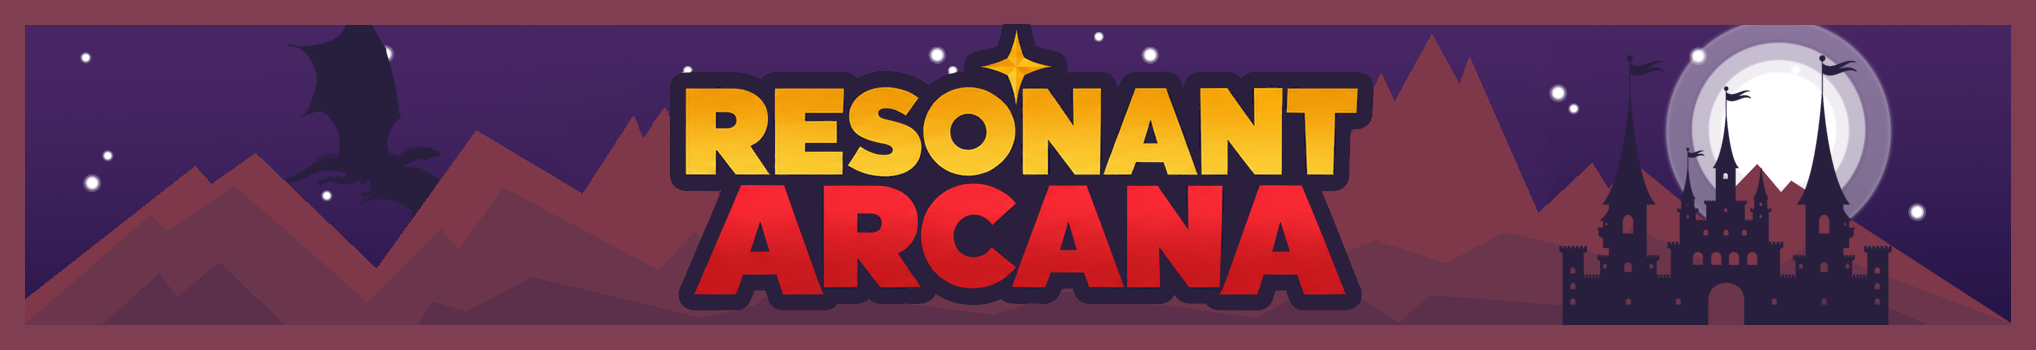
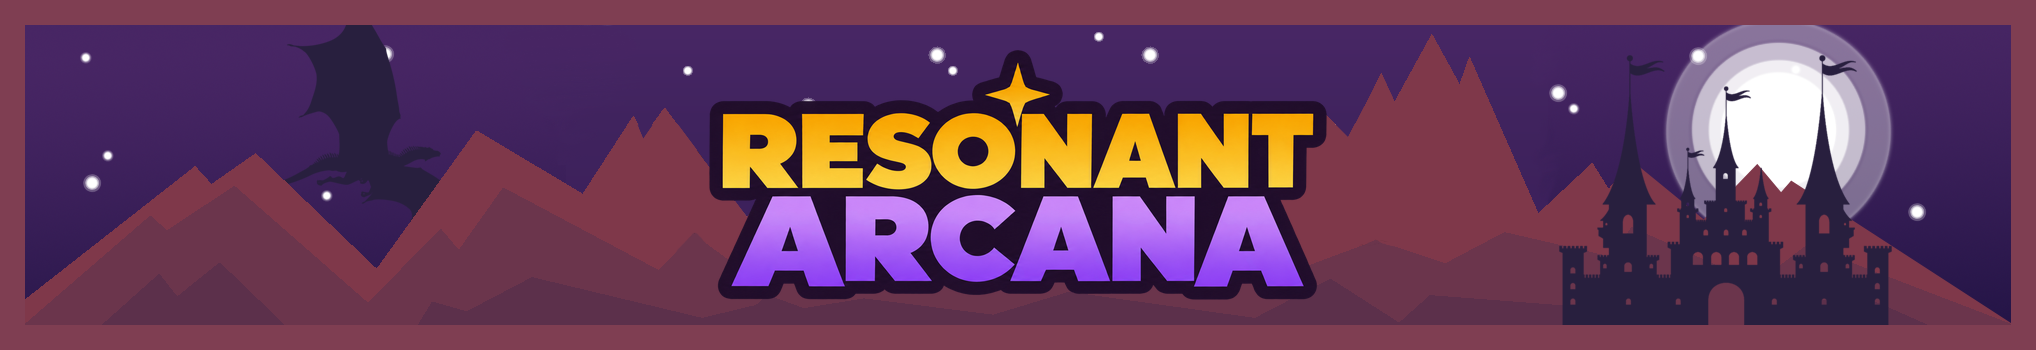
docs: refresh project branding, naming and documentation

Changed region(s): [[0.3094, 0.0571, 0.6807, 0.8857]]

diff --git a/docs/BRANDING.md b/docs/BRANDING.md
@@ -1,0 +1,12 @@
+# Resonant Arcana — Branding
+
+Owner-supplied artwork. Use one banner at the top of the README and documentation home; use the logo for icons and project listings.
+
+| Asset | Official URL |
+| --- | --- |
+| Banner | [Open banner](https://i.imgur.com/2FIsYgK.png) |
+| Logo | [Open logo](https://i.imgur.com/YlOt5L8.png) |
+
+These links supersede earlier artwork references. Preserve the artwork, proportions and typography.
+
+The provided artwork pack is also preserved in [`docs/assets/banner.png`](https://github.com/Mikaaah/Resonant-Arcana/blob/main/docs/assets/banner.png) and [`docs/assets/logo.png`](https://github.com/Mikaaah/Resonant-Arcana/blob/main/docs/assets/logo.png). The direct URLs above identify the latest owner-supplied versions.

diff --git a/wiki/Home.md b/wiki/Home.md
@@ -1,4 +1,4 @@
-<p align="center"><img src="https://github.com/Mikaaah/Resonant-Arcana/raw/refs/heads/main/docs/assets/banner.png" alt="Resonant Arcana" width="100%"></p>
+<p align="center"><img src="https://i.imgur.com/2FIsYgK.png" alt="Resonant Arcana" width="100%"></p>
 
 <h1 align="center">Resonant Arcana</h1>
 

diff --git a/README.md b/README.md
@@ -1,4 +1,4 @@
-<p align="center"><img src="docs/assets/banner.png" alt="Resonant Arcana" width="100%"></p>
+<p align="center"><img src="https://i.imgur.com/2FIsYgK.png" alt="Resonant Arcana" width="100%"></p>
 
 <h1 align="center">Resonant Arcana</h1>
 

diff --git a/wiki/_Sidebar.md b/wiki/_Sidebar.md
@@ -1,3 +1,5 @@
+<img src="https://i.imgur.com/YlOt5L8.png" alt="Project logo" width="96">
+
 **Resonant Arcana**
 
 - [Home](https://github.com/Mikaaah/Resonant-Arcana/wiki/Home)
